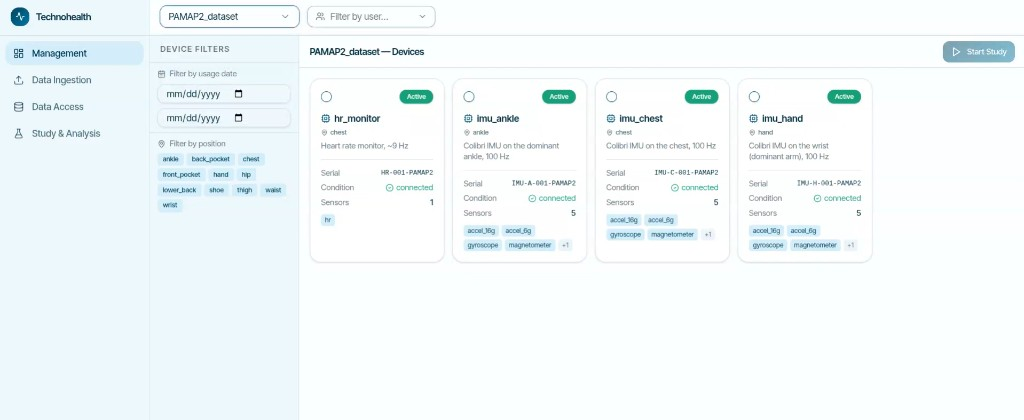
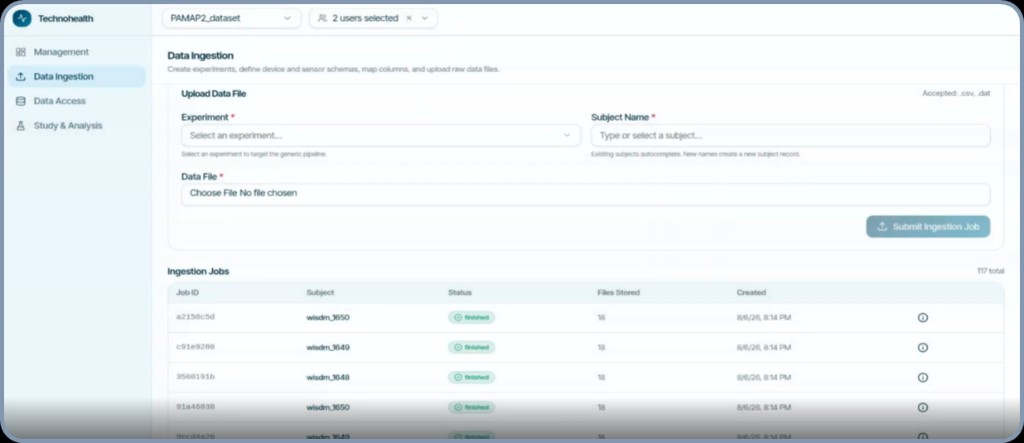
Swap Health Monitoring visual to Data Ingestion dashboard.
Use the provided TechnoHealth ingestion screenshot beside the experiment results screen.

diff --git a/src/config/siteCopy.ts b/src/config/siteCopy.ts
@@ -57,7 +57,7 @@ const siteCopy = {
     platformTab2F3Title: 'Compare runs and promote winners',
     platformTab2F3Desc:
       'Track accuracy, F1, and status across runs. Keep the best model, catch regressions, and move approved versions into production.',
-    platformMonitorAlt: 'TechnoHealth device management and experiment results screens',
+    platformMonitorAlt: 'TechnoHealth Data Ingestion dashboard with experiment upload and jobs',
 
     platformTab3: 'MCP for LLM and Agents',
     platformTab3Intro: 'Give any LLM or agent structured tools for health data — without giving up control.',
@@ -189,7 +189,7 @@ const siteCopy = {
     platformTab2F3Title: 'Comparez les runs et promouvez les gagnants',
     platformTab2F3Desc:
       'Suivez accuracy, F1 et statut entre runs. Gardez le meilleur modèle, détectez les régressions, et passez les versions approuvées en production.',
-    platformMonitorAlt: 'Écrans TechnoHealth de gestion des appareils et de résultats d’expérience',
+    platformMonitorAlt: 'Tableau TechnoHealth Data Ingestion avec upload d’expérience et jobs',
 
     platformTab3: 'MCP pour LLM et agents',
     platformTab3Intro: 'Donnez à tout LLM ou agent des outils structurés sur les données santé — sans perdre le contrôle.',

diff --git a/src/components/BenefitsPillars.tsx b/src/components/BenefitsPillars.tsx
@@ -238,7 +238,7 @@ export default function BenefitsPillars() {
                   <img
                     src={monitoringImg}
                     alt={t.platformMonitorAlt}
-                    className="w-full h-full min-h-[240px] max-h-[380px] object-cover object-top"
+                    className="w-full h-full min-h-[240px] max-h-[380px] object-contain object-top bg-white"
                     loading="lazy"
                   />
                 </div>
